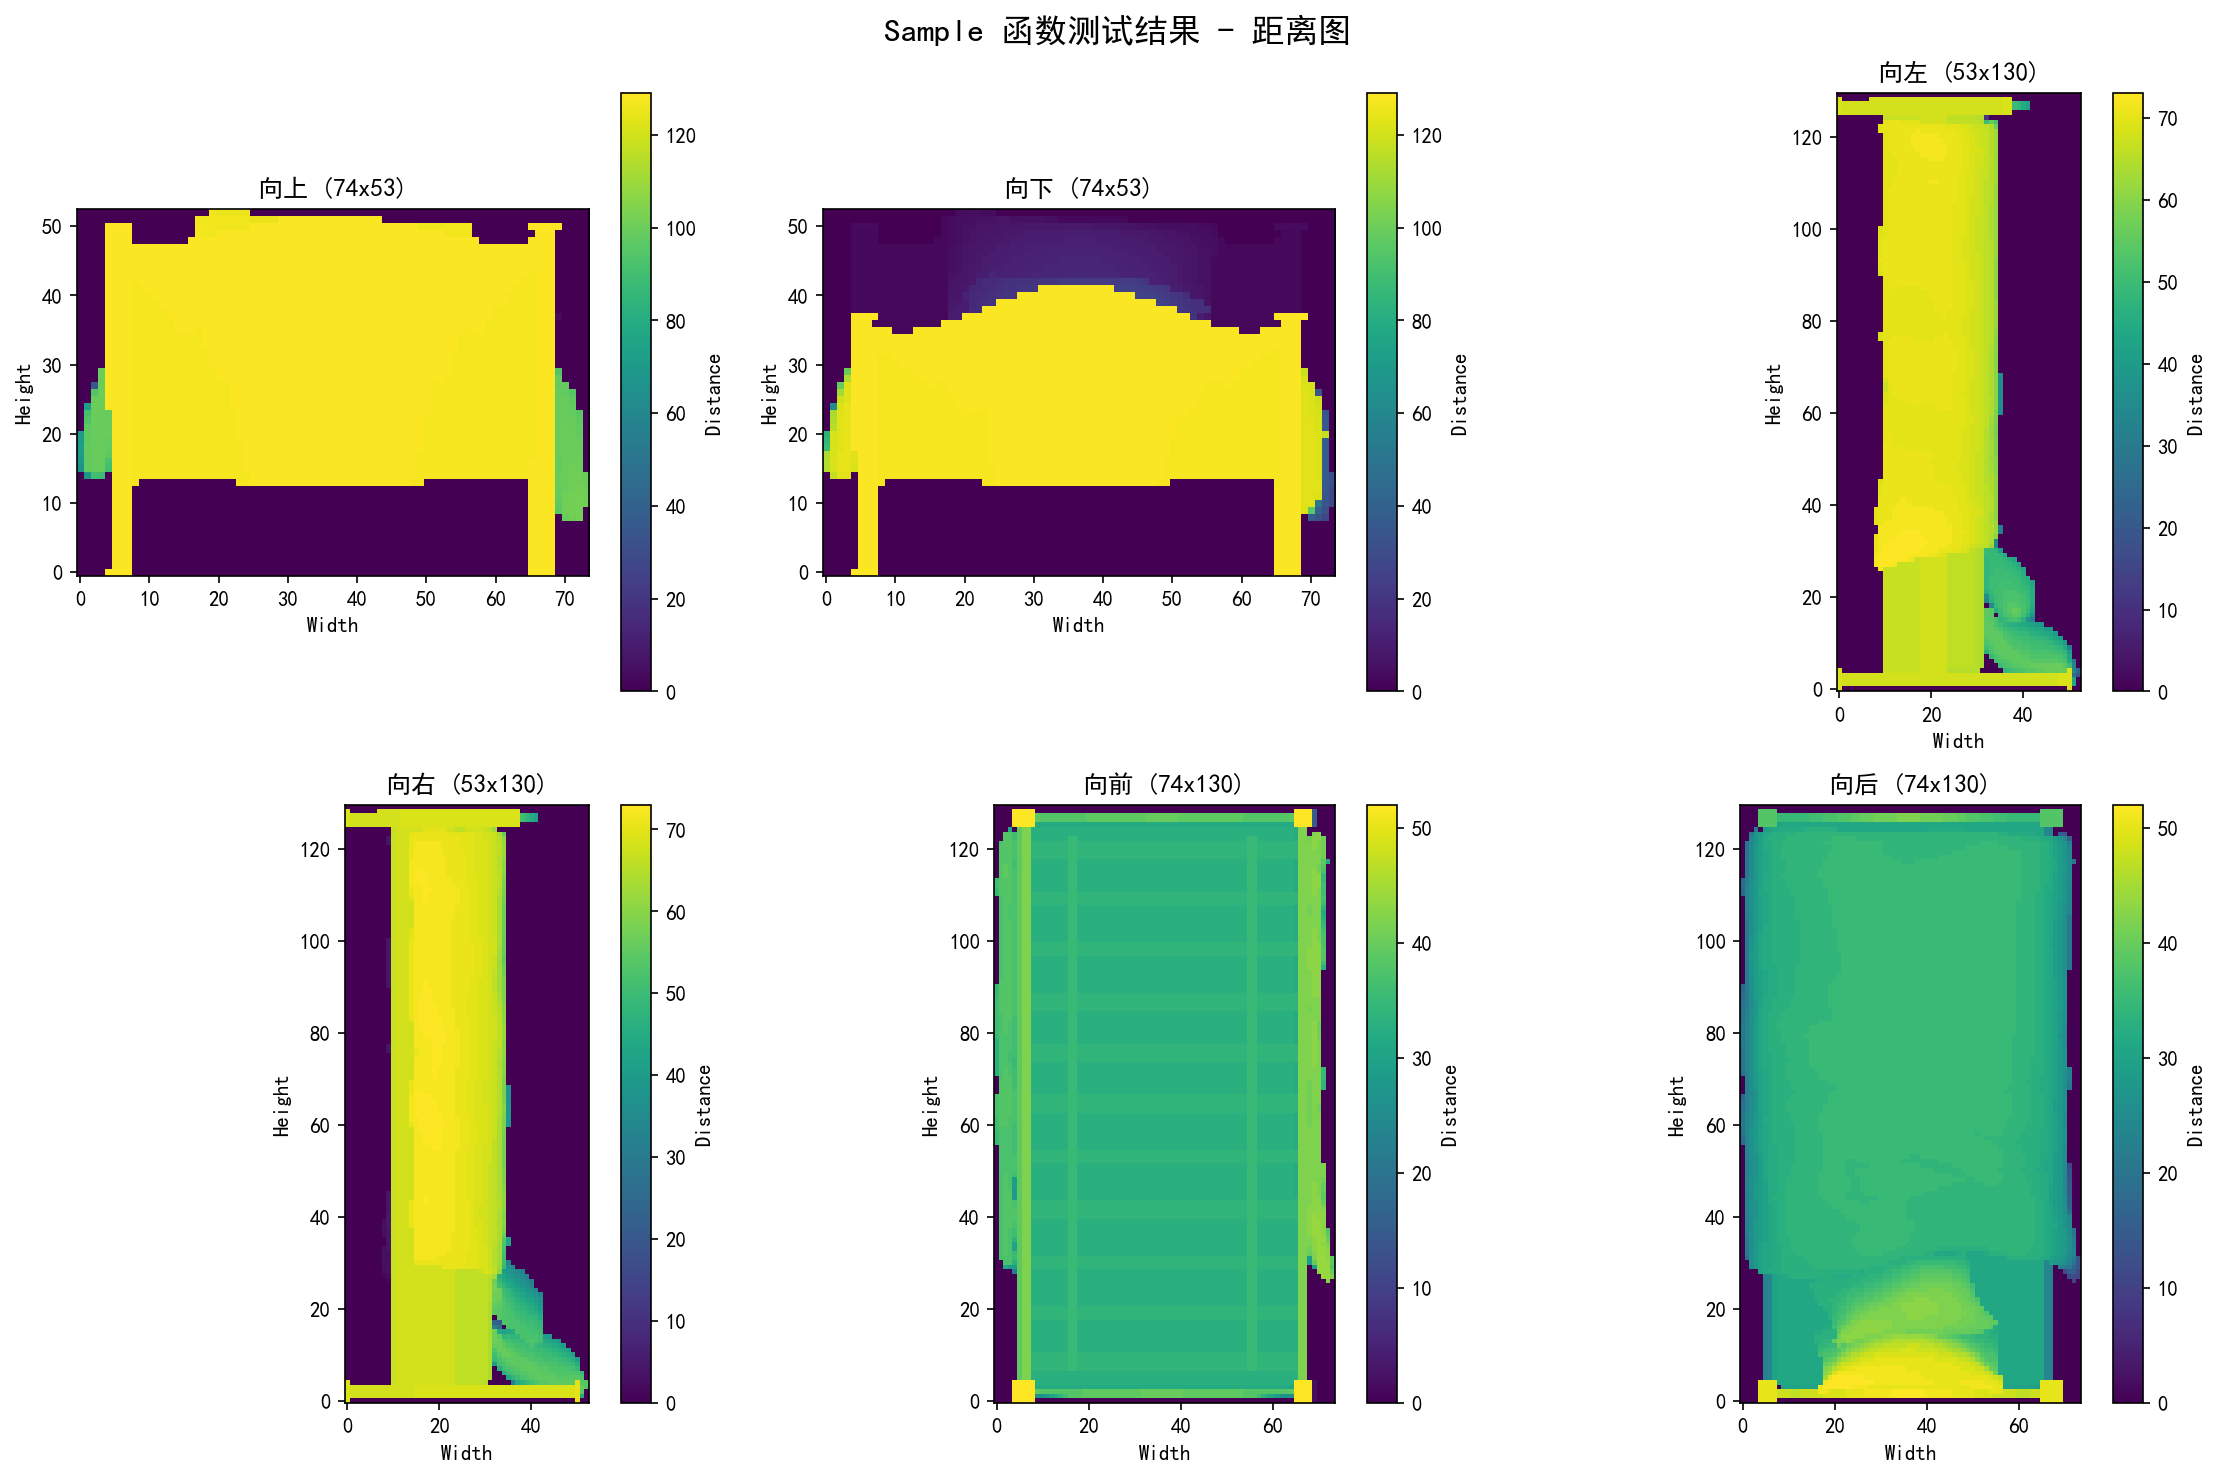
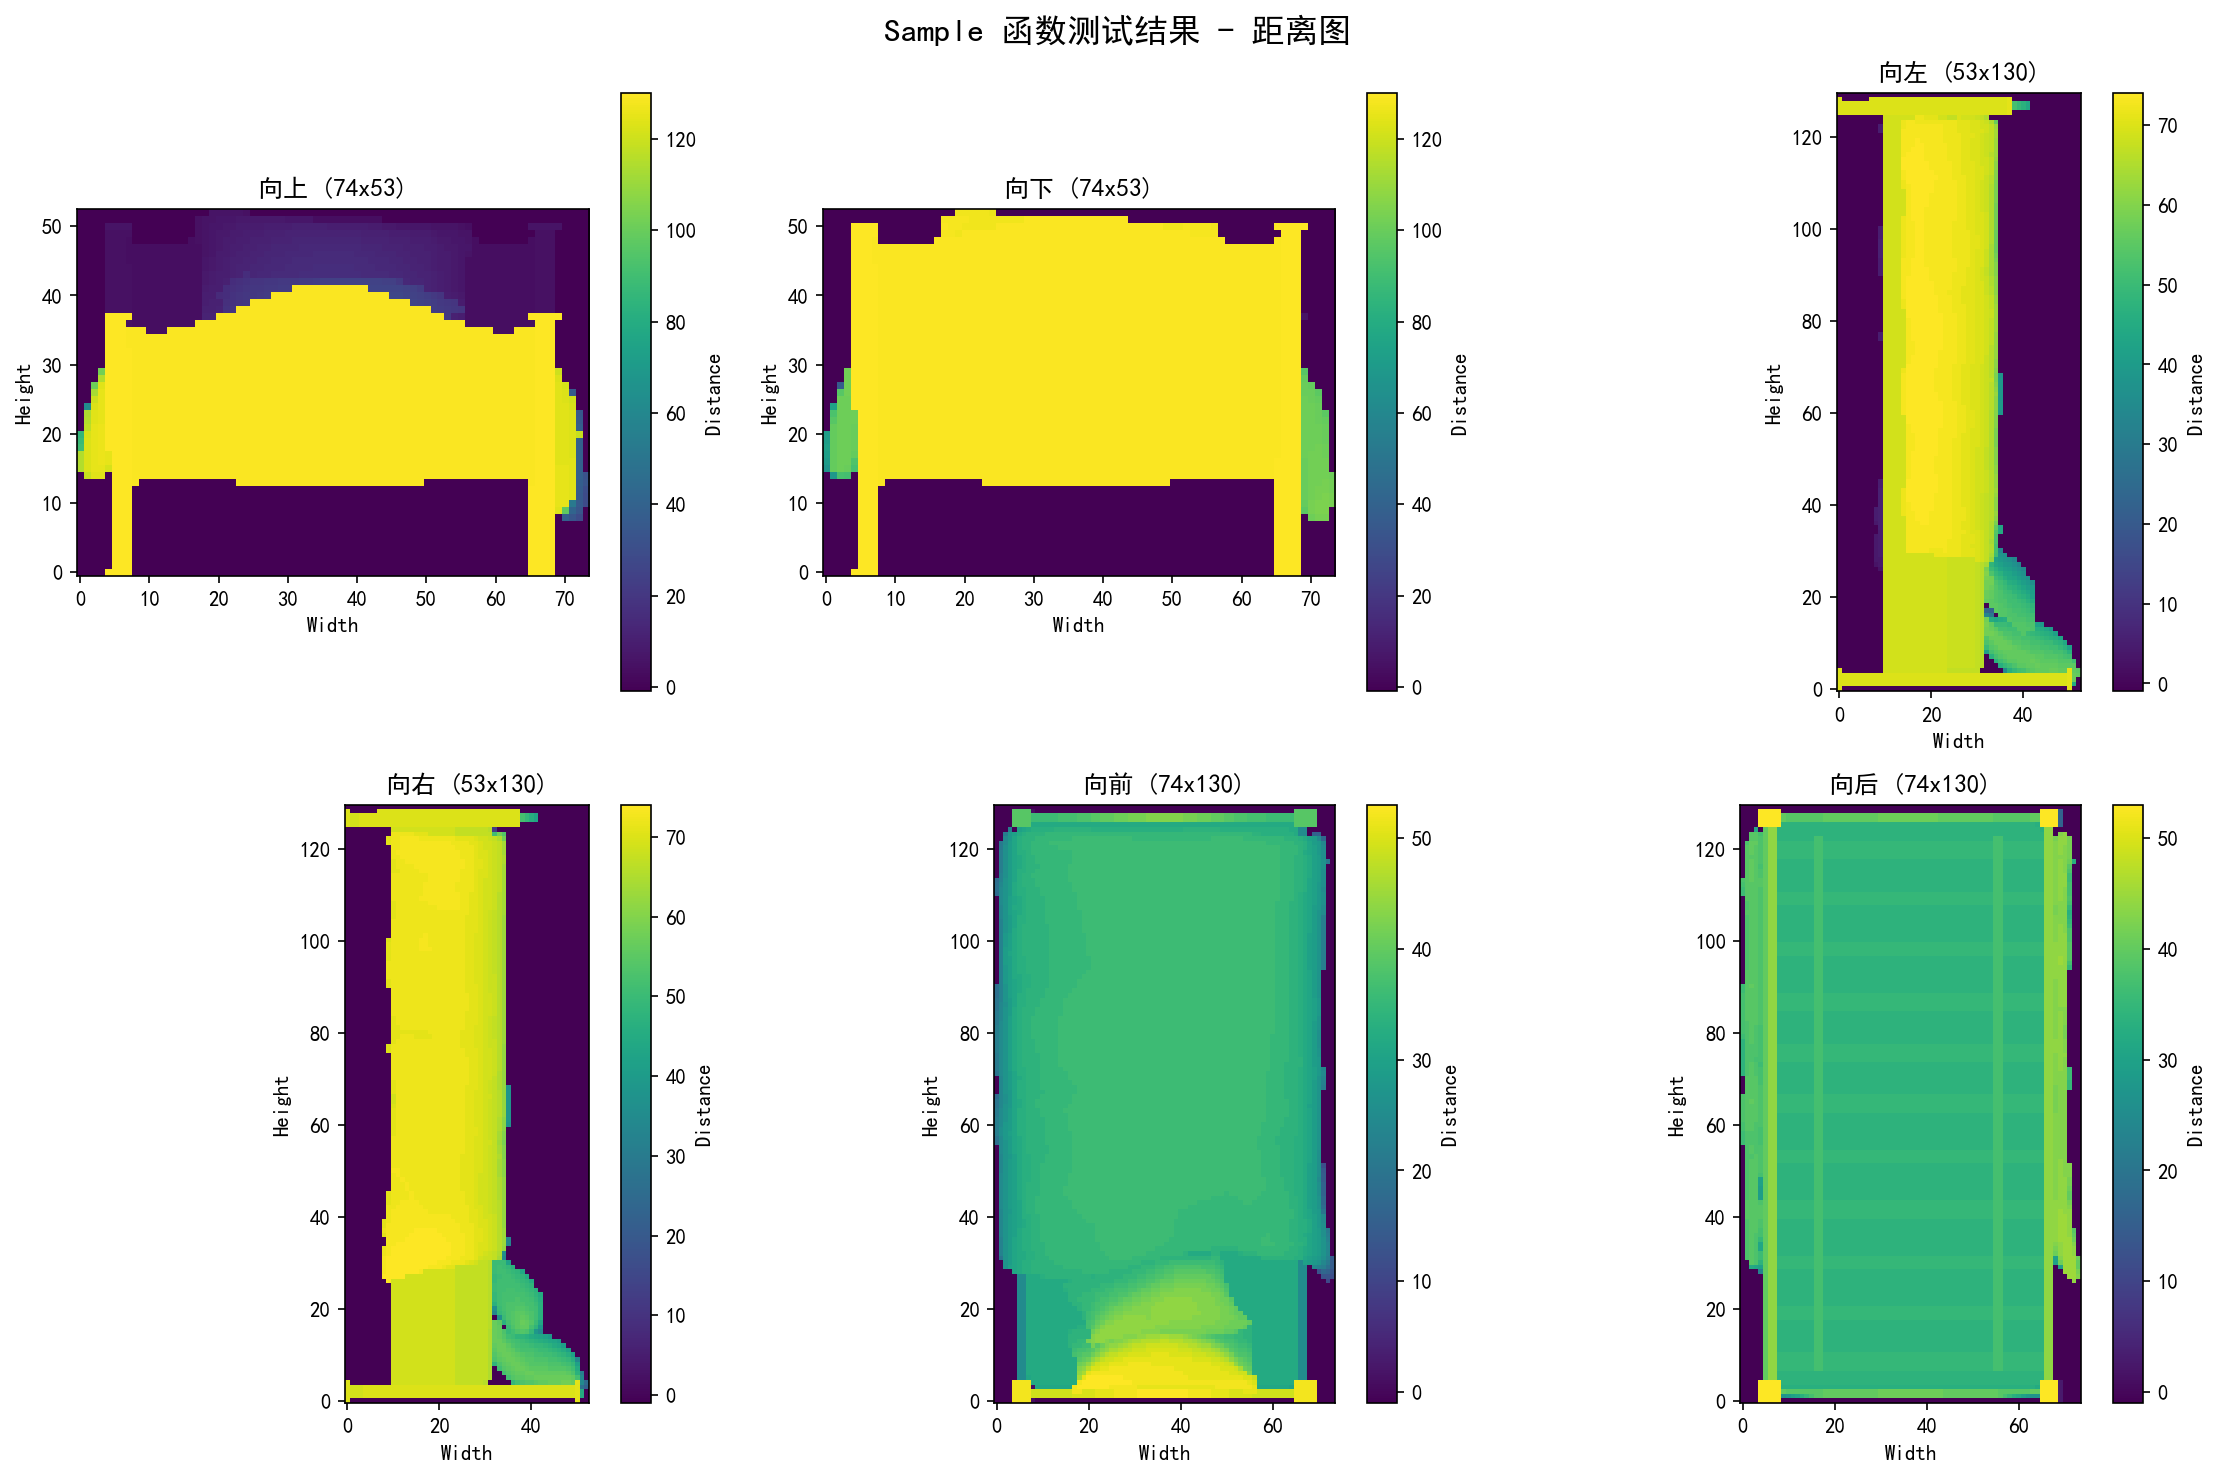
update sample func

diff --git a/code/Utils.py b/code/Utils.py
@@ -148,7 +148,7 @@ def sample(mesh, vertex_colors, dirt: direction):
         origin_z = z if dirt == direction.down else z + height
         origin = [x, y, origin_z]
         min_coord1, min_coord2 = x, y
-        plane_length, plane_width = length, width
+        plane_length, plane_width, plane_height = length, width, height
     elif dirt == direction.left or dirt == direction.right:
         # 投影到YZ平面，深度轴是X
         plane_axis1, plane_axis2, depth_axis = 1, 2, 0
@@ -156,7 +156,7 @@ def sample(mesh, vertex_colors, dirt: direction):
         origin_x = x if dirt == direction.left else x + length
         origin = [origin_x, y, z]
         min_coord1, min_coord2 = y, z
-        plane_length, plane_width = width, height
+        plane_length, plane_width, plane_height = width, height, length
     else:  # forward or backward
         # 投影到XZ平面，深度轴是Y
         plane_axis1, plane_axis2, depth_axis = 0, 2, 1
@@ -164,23 +164,24 @@ def sample(mesh, vertex_colors, dirt: direction):
         origin_y = y if dirt == direction.backward else y + width
         origin = [x, origin_y, z]
         min_coord1, min_coord2 = x, z
-        plane_length, plane_width = length, height
+        plane_length, plane_width, plane_height = length, height, width
 
     # 根据sample_rate计算网格数量
-    width = math.ceil(plane_length / SAMPLE_RATE)
-    height = math.ceil(plane_width / SAMPLE_RATE)
+    length = math.ceil(plane_length / SAMPLE_RATE)
+    width = math.ceil(plane_width / SAMPLE_RATE)
+    height = math.ceil(plane_height / SAMPLE_RATE)
+
 
     # 创建距离图和颜色图
-    dist_map = np.zeros((height, width), dtype=np.uint8)  # 最远距离
-    dist_map_nearest = np.full((height, width), MAX_DEPTH, dtype=np.uint8)  # 最近距离（用于颜色）
-    color_map = np.ones((height, width, 3), dtype=np.uint8) * 255  # 默认白色
+    dist_map_nearest = np.full((width, length), height + 1, dtype=np.int16)  # 最近距离（用于颜色）
+    color_map = np.ones((width, length, 3), dtype=np.uint8) * 255  # 默认白色
 
     # 对每个网格中心发射射线
     ray_origins = []
     grid_indices = []
 
-    for grid_y in range(height):
-        for grid_x in range(width):
+    for grid_y in range(width):
+        for grid_x in range(length):
             # 计算网格中心在投影平面上的坐标
             center_coord1 = min_coord1 + (grid_x + 0.5) * SAMPLE_RATE
             center_coord2 = min_coord2 + (grid_y + 0.5) * SAMPLE_RATE
@@ -216,10 +217,6 @@ def sample(mesh, vertex_colors, dirt: direction):
             distance = np.linalg.norm(hit_location - ray_origins[ray_idx])
 
             depth_value = int(distance / SAMPLE_RATE)
-
-            # 更新最远距离（用于 dist_map）
-            if depth_value > dist_map[grid_y, grid_x]:
-                dist_map[grid_y, grid_x] = depth_value
 
             # 更新最近距离（用于 color_map，避免穿模）
             if depth_value < dist_map_nearest[grid_y, grid_x]:
@@ -259,7 +256,9 @@ def sample(mesh, vertex_colors, dirt: direction):
                 color_map[grid_y, grid_x] = color
 
     # 创建并返回distance_map对象
-    result = distance_map(dirt, origin[0], origin[1], origin[2], height, width)
+    result = distance_map(dirt, origin[0], origin[1], origin[2], width, length)
+    dist_map =  height - dist_map_nearest
+
     result.set_dist_map(dist_map)
     result.set_color_map(color_map)
 

diff --git a/code/room.py b/code/room.py
@@ -12,7 +12,7 @@ class distance_map:
         self.z = z
         self.height = height
         self.width = width
-        self.distance = np.zeros((height, width), dtype=np.uint8)
+        self.distance = np.zeros((height, width), dtype=np.int16)
         self.color = np.zeros((height, width, 3), dtype=np.uint8)
 
     def set_dist_map(self, bias: np.ndarray):
